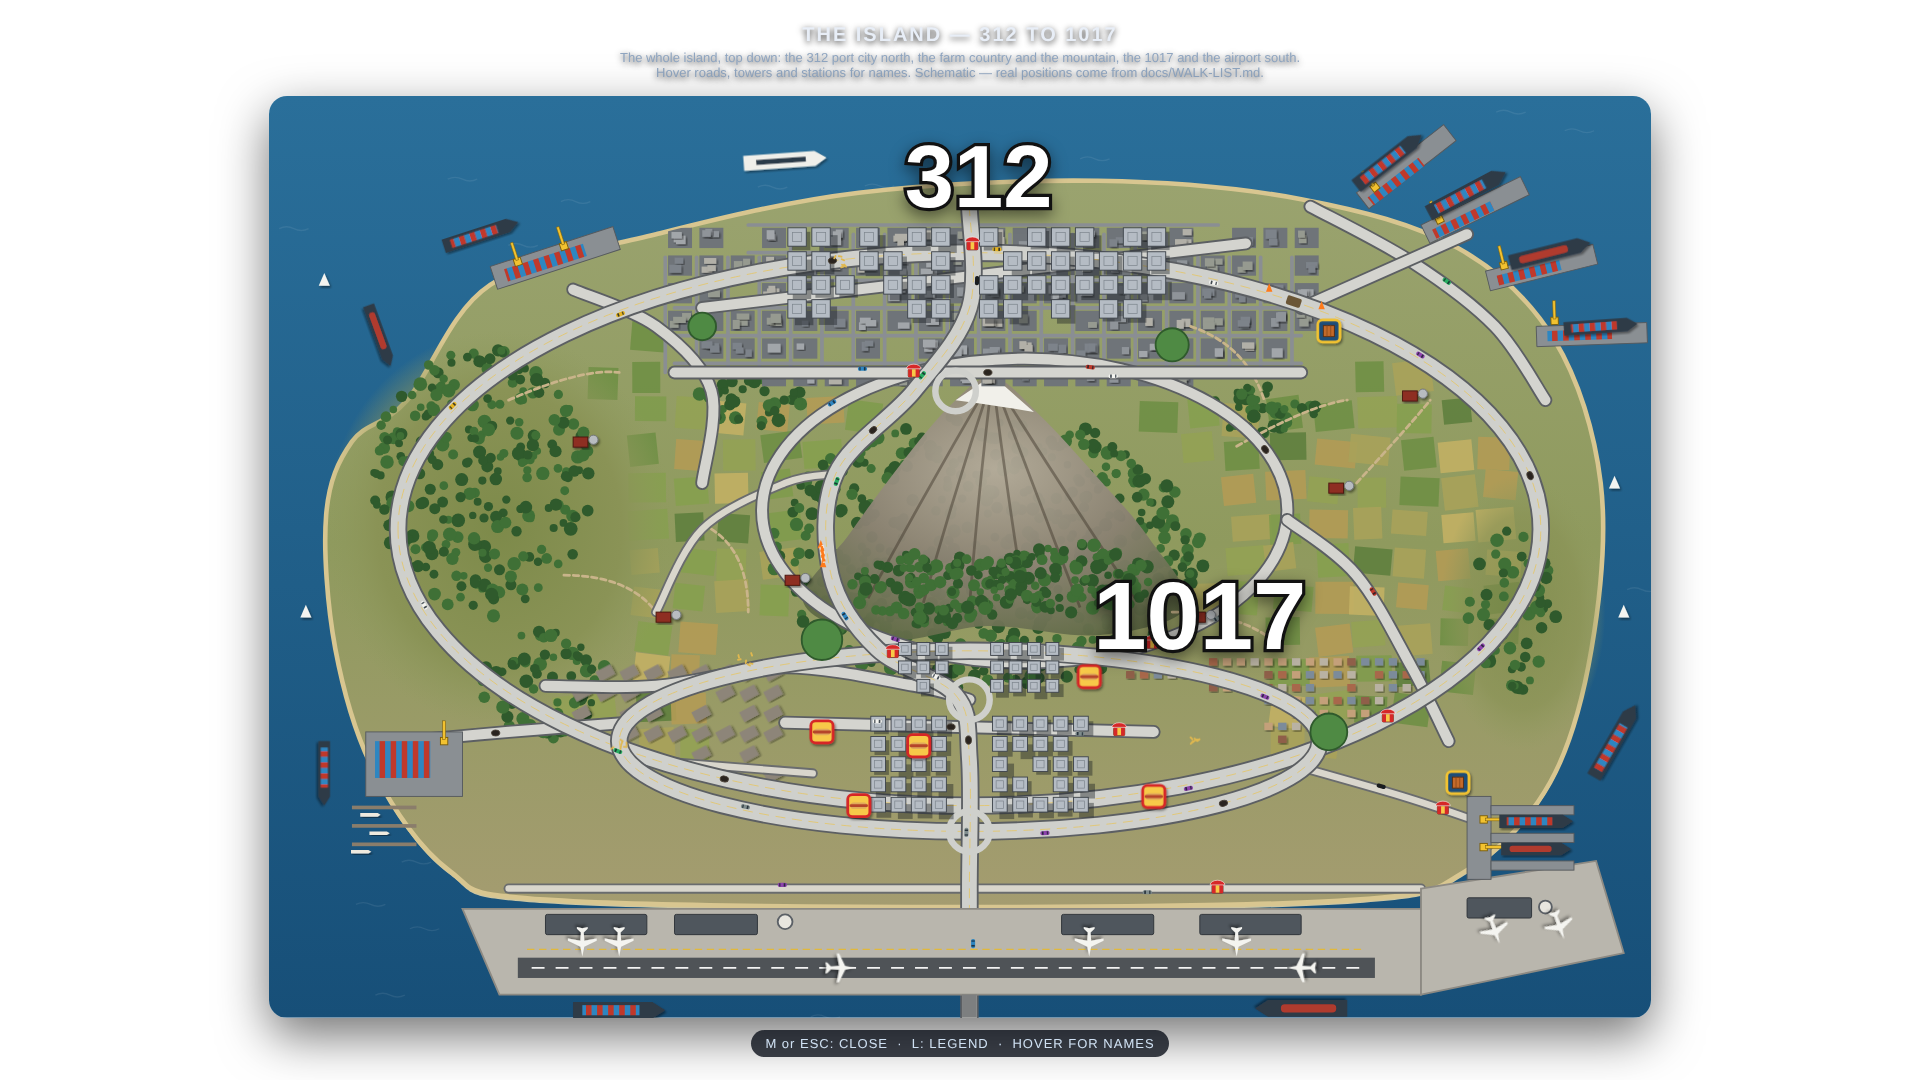
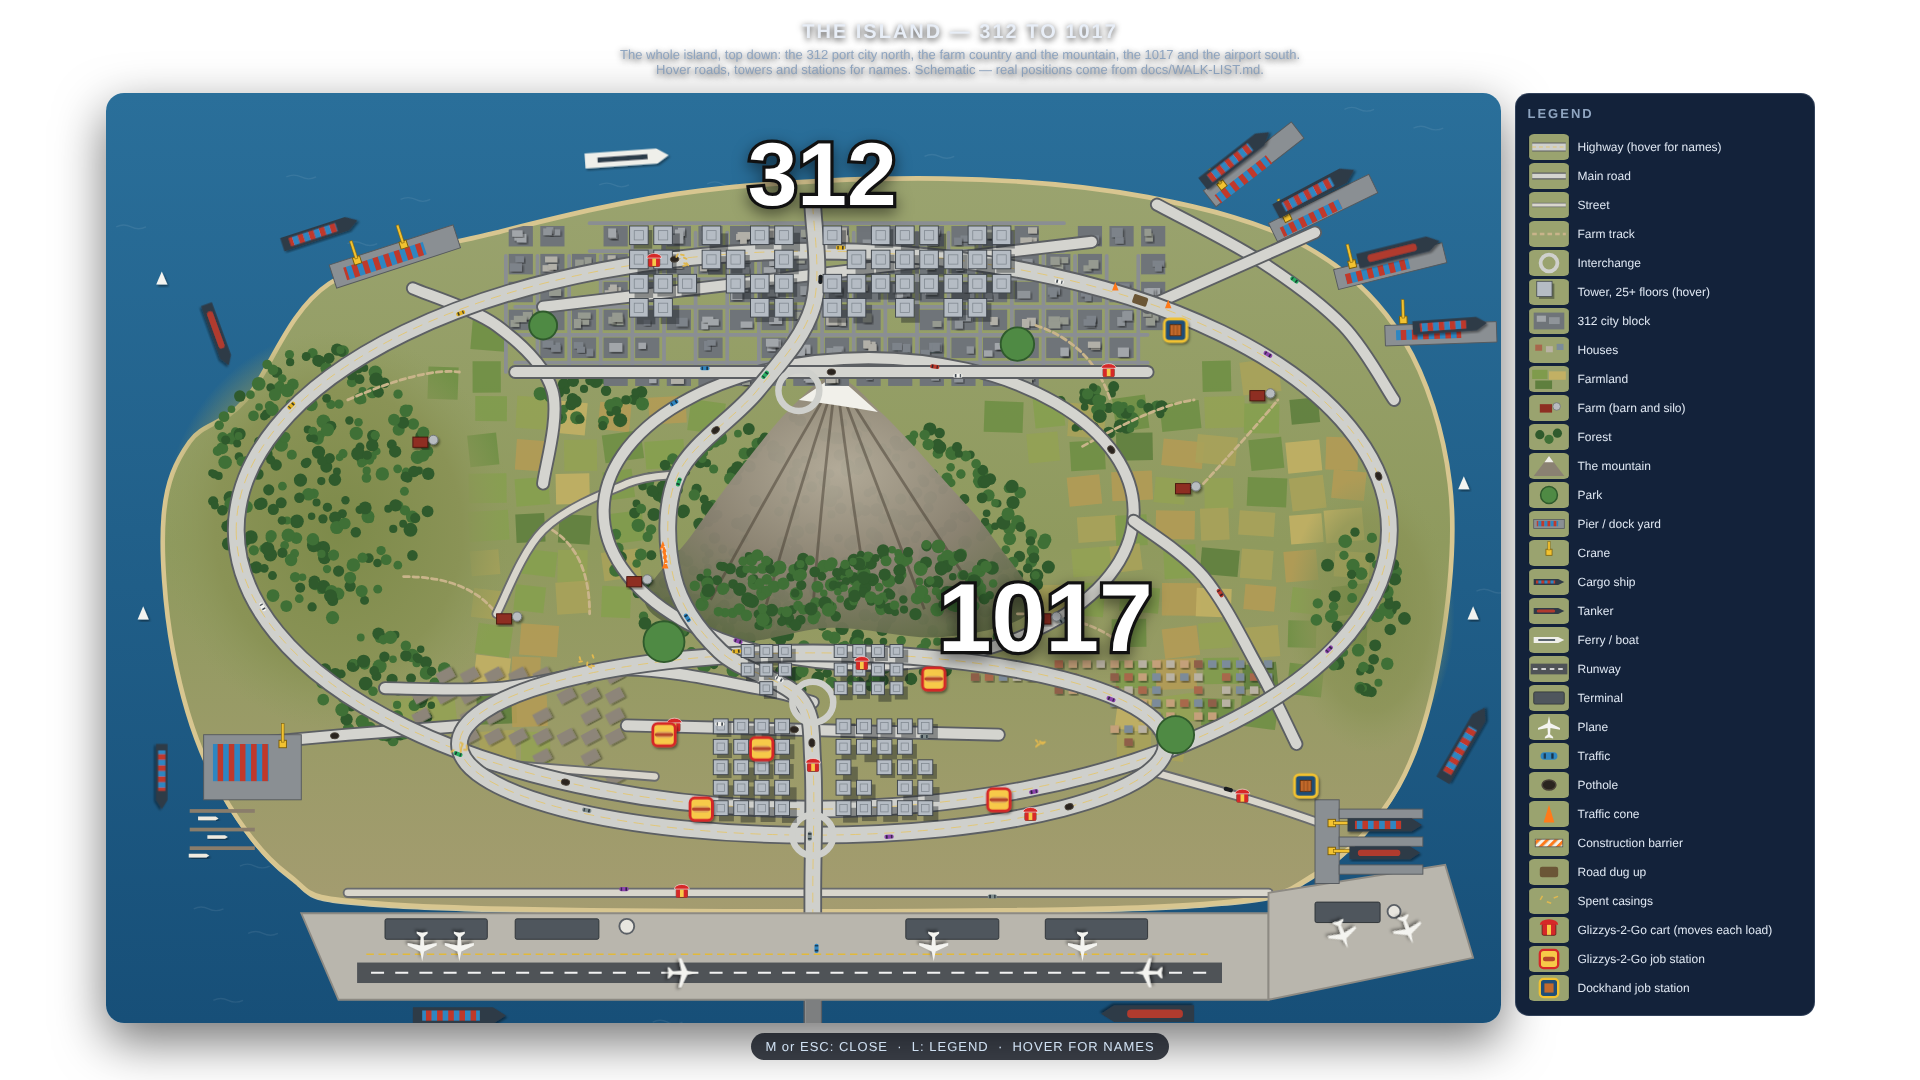
In-game map: legend opens beside the map, everything on one screen
L now opens the legend as a column to the right of the map instead of
below it; the map shrinks to make room and is sized from the screen height,
so the page never scrolls. All 30 legend rows fit at 1920x1080 and
2560x1440; on 1366x768 the legend column scrolls on its own.

Claude-Session: https://claude.ai/code/session_01FagBtygwPmHUod4bPZTnD1

diff --git a/world-map/html/index.html b/world-map/html/index.html
@@ -27,14 +27,21 @@
 <style>
   /* NUI shell: the game shows through, the map starts hidden and fits the screen. */
   html, body { background: transparent !important; }
-  body { padding: 2vh 2vw; justify-content: center; min-height: 100vh; }
+  body { padding: 16px; justify-content: center; height: 100vh; overflow: hidden; }
   #app { display: none; flex-direction: column; align-items: center; }
   #app.open { display: flex; }
   #app h1, #app p.note { text-shadow: 0 2px 6px rgba(0,0,0,.8); }
-  .frame { width: min(96vw, 128vh); }
-  .legend { width: min(96vw, 128vh); max-height: 34vh; overflow: auto; display: none; }
-  .legend.open { display: block; }
-  .hint { margin: 12px auto 0; width: fit-content; padding: 6px 14px; border-radius: 999px;
+  /* map and legend side by side; the map takes what's left after the header, hint and legend */
+  .stage { display: flex; gap: 14px; align-items: flex-start; justify-content: center; }
+  .frame { width: min(calc(100vw - 32px), calc((100vh - 150px) * 1.5)); flex: 0 0 auto; }
+  .stage.with-legend .frame { width: min(calc(100vw - 32px - 314px), calc((100vh - 150px) * 1.5)); }
+  .legend { display: none; width: 300px; margin-top: 0; padding: 12px 12px 14px;
+            max-height: calc(100vh - 150px); overflow-y: auto; flex: 0 0 300px; }
+  .stage.with-legend .legend { display: block; }
+  .legend ul { grid-template-columns: 1fr; gap: 2px; }
+  .legend li { min-height: 27px; font-size: 12px; gap: 8px; }
+  .legend .sw { flex-basis: 42px; height: 26px; }
+  .hint { margin: 10px auto 0; width: fit-content; padding: 6px 14px; border-radius: 999px;
           background: rgba(6,12,22,.78); color: #cfe0f2; font-size: 13px; letter-spacing: 1px; }
 </style>
 </head>
@@ -43,6 +50,7 @@
   <h1>THE ISLAND — 312 TO 1017</h1>
   <p class="note">The whole island, top down: the 312 port city north, the farm country and the mountain, the 1017 and the airport south.<br>
   Hover roads, towers and stations for names. Schematic — real positions come from docs/WALK-LIST.md.</p>
+  <div class="stage">
   <div class="frame">
 <svg id="island" viewBox="0 0 1500 1000" xmlns="http://www.w3.org/2000/svg" role="img" aria-label="The island: 312 north, the mountain, 1017 south">
 <defs>
@@ -2225,7 +2233,6 @@
 <text x="1010" y="600" text-anchor="middle" font-family="Arial Black, Arial, sans-serif" font-weight="900" font-size="104" fill="#fff" stroke="#111" stroke-width="7" paint-order="stroke" style="filter:drop-shadow(0 6px 8px rgba(0,0,0,.5))">1017</text>
 </svg>
   </div>
-  <div class="hint">M or ESC: CLOSE &nbsp;·&nbsp; L: LEGEND &nbsp;·&nbsp; HOVER FOR NAMES</div>
   <div class="legend">
     <h2>LEGEND</h2>
     <svg width="0" height="0" style="position:absolute"><defs>
@@ -2266,6 +2273,8 @@
       <li><svg class="sw" viewBox="0 0 52 34"><rect width="52" height="34" fill="#9aa36f"/><rect x="14" y="5" width="24" height="24" rx="5" fill="#1f4e79" stroke="#f2c230" stroke-width="3"/><rect x="20" y="11" width="12" height="12" fill="#c46a2c"/></svg>Dockhand job station</li>
     </ul>
   </div>
+  </div><!-- .stage -->
+  <div class="hint">M or ESC: CLOSE &nbsp;·&nbsp; L: LEGEND &nbsp;·&nbsp; HOVER FOR NAMES</div>
 </div><!-- #app -->
 <script>
 // Places cars, potholes, cones, the barrier, the dig and the hot dog carts along the road paths.
@@ -2303,7 +2312,7 @@ window.placeOnRoad();
 <script>
   // client.lua owns focus; this page only shows, hides and asks to close.
   const app = document.getElementById('app');
-  const legend = document.querySelector('.legend');
+  const stage = document.querySelector('.stage');
   const close = () => {
     const res = typeof GetParentResourceName === 'function' ? GetParentResourceName() : null;
     if (res) fetch(`https://${res}/close`, { method: 'POST', body: '{}' });
@@ -2318,7 +2327,7 @@ window.placeOnRoad();
   document.addEventListener('keyup', (e) => {
     if (!app.classList.contains('open')) return;
     if (e.key === 'Escape' || e.key === 'm' || e.key === 'M') close();
-    if (e.key === 'l' || e.key === 'L') legend.classList.toggle('open');
+    if (e.key === 'l' || e.key === 'L') stage.classList.toggle('with-legend');
   });
 </script>
 </body>

diff --git a/tools/gen-world-map-nui.py b/tools/gen-world-map-nui.py
@@ -18,25 +18,32 @@ page = (root / "island-map.html").read_text()
 shell_css = """<style>
   /* NUI shell: the game shows through, the map starts hidden and fits the screen. */
   html, body { background: transparent !important; }
-  body { padding: 2vh 2vw; justify-content: center; min-height: 100vh; }
+  body { padding: 16px; justify-content: center; height: 100vh; overflow: hidden; }
   #app { display: none; flex-direction: column; align-items: center; }
   #app.open { display: flex; }
   #app h1, #app p.note { text-shadow: 0 2px 6px rgba(0,0,0,.8); }
-  .frame { width: min(96vw, 128vh); }
-  .legend { width: min(96vw, 128vh); max-height: 34vh; overflow: auto; display: none; }
-  .legend.open { display: block; }
-  .hint { margin: 12px auto 0; width: fit-content; padding: 6px 14px; border-radius: 999px;
+  /* map and legend side by side; the map takes what's left after the header, hint and legend */
+  .stage { display: flex; gap: 14px; align-items: flex-start; justify-content: center; }
+  .frame { width: min(calc(100vw - 32px), calc((100vh - 150px) * 1.5)); flex: 0 0 auto; }
+  .stage.with-legend .frame { width: min(calc(100vw - 32px - 314px), calc((100vh - 150px) * 1.5)); }
+  .legend { display: none; width: 300px; margin-top: 0; padding: 12px 12px 14px;
+            max-height: calc(100vh - 150px); overflow-y: auto; flex: 0 0 300px; }
+  .stage.with-legend .legend { display: block; }
+  .legend ul { grid-template-columns: 1fr; gap: 2px; }
+  .legend li { min-height: 27px; font-size: 12px; gap: 8px; }
+  .legend .sw { flex-basis: 42px; height: 26px; }
+  .hint { margin: 10px auto 0; width: fit-content; padding: 6px 14px; border-radius: 999px;
           background: rgba(6,12,22,.78); color: #cfe0f2; font-size: 13px; letter-spacing: 1px; }
 </style>
 </head>"""
 page = page.replace("</head>", shell_css, 1)
 page = page.replace("<body>", '<body>\n<div id="app">', 1)
-page = page.replace('  <div class="legend">', '  <div class="hint">M or ESC: CLOSE &nbsp;·&nbsp; L: LEGEND &nbsp;·&nbsp; HOVER FOR NAMES</div>\n  <div class="legend">', 1)
-page = page.replace("<script>", "</div><!-- #app -->\n<script>", 1)
+page = page.replace('  <div class="frame">', '  <div class="stage">\n  <div class="frame">', 1)
+page = page.replace("<script>", '  </div><!-- .stage -->\n  <div class="hint">M or ESC: CLOSE &nbsp;·&nbsp; L: LEGEND &nbsp;·&nbsp; HOVER FOR NAMES</div>\n</div><!-- #app -->\n<script>', 1)
 shell_js = """<script>
   // client.lua owns focus; this page only shows, hides and asks to close.
   const app = document.getElementById('app');
-  const legend = document.querySelector('.legend');
+  const stage = document.querySelector('.stage');
   const close = () => {
     const res = typeof GetParentResourceName === 'function' ? GetParentResourceName() : null;
     if (res) fetch(`https://${res}/close`, { method: 'POST', body: '{}' });
@@ -51,7 +58,7 @@ shell_js = """<script>
   document.addEventListener('keyup', (e) => {
     if (!app.classList.contains('open')) return;
     if (e.key === 'Escape' || e.key === 'm' || e.key === 'M') close();
-    if (e.key === 'l' || e.key === 'L') legend.classList.toggle('open');
+    if (e.key === 'l' || e.key === 'L') stage.classList.toggle('with-legend');
   });
 </script>
 </body>"""
